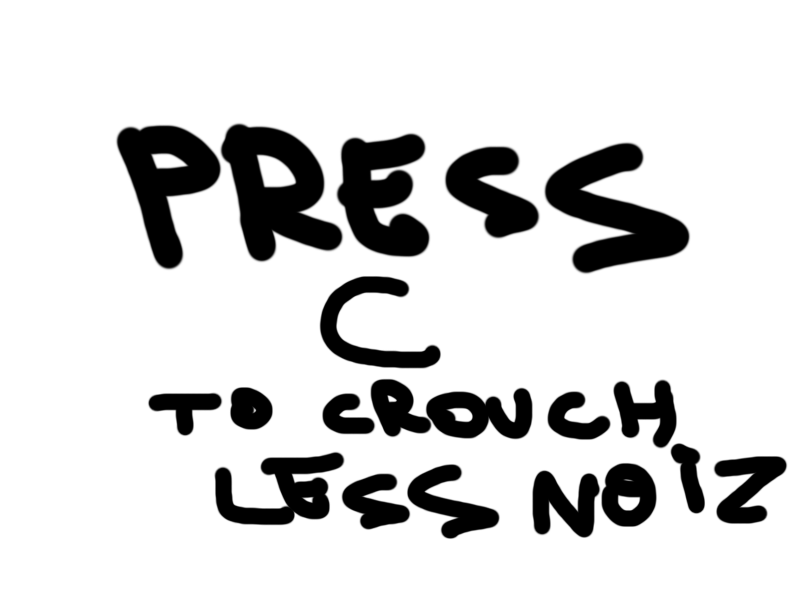
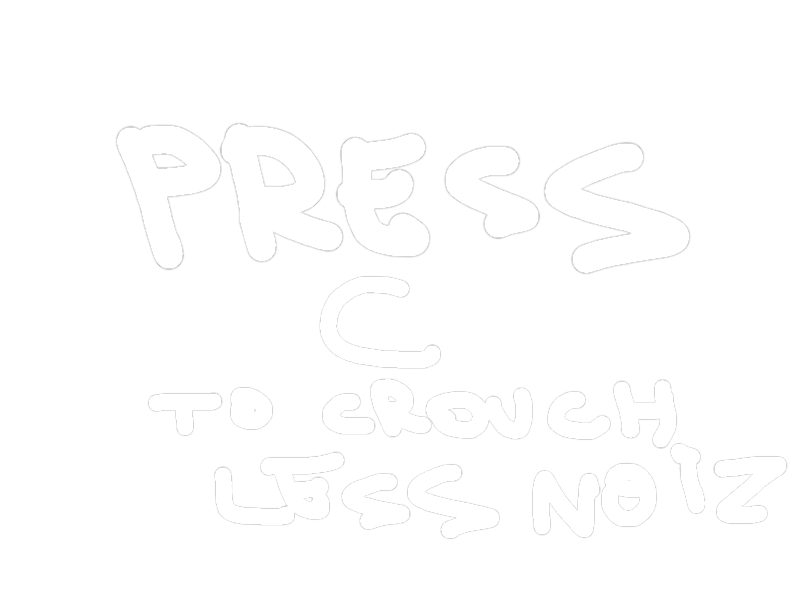
tutorials

Changed region(s): [[0.125, 0.21, 1.0, 0.9], [0.25, 0.75, 0.625, 0.9], [0.1875, 0.63, 0.3438, 0.72]]

diff --git a/src/draw/mod.rs b/src/draw/mod.rs
@@ -244,47 +244,70 @@ impl Game {
 
         if !self.main_menu && !self.in_settings {
             // PawnMan20 is like totally hot
-            let reticle_texture = (|| {
-                match look.target {
-                    None => &self.assets.reticle,
-                    Some(target) => match target.object {
-                        Object::StaticLevel => &self.assets.reticle,
-                        Object::Interactable(id) => {
-                            let interactable = &self.interactables[id];
 
-                            // Copypasta mmmm
-                            let mut requirement = interactable.config.require_item.as_deref();
-                            if interactable.data.obj.meshes[0]
-                                .name
-                                .starts_with("I_LoosePlank")
-                            {
-                                requirement = Some("Crowbar");
-                            }
-
-                            if let Some(requirement) = requirement {
-                                if self.player.item.as_deref() != Some(requirement) {
-                                    return &self.assets.require_item;
-                                    // self.level.items[requirement].spawns[0]
-                                    //     .mesh
-                                    //     .material
-                                    //     .texture
-                                    //     .unwrap();
-                                }
-                            }
-                            &self.assets.hand
-                        }
-                        Object::Item(id) => &self.assets.hand,
-                    },
+            let tutorial_texture = {
+                let mut texture = None;
+                if self.show_flashlight_tutorial && !self.player.flashdark.on {
+                    texture = Some(&self.assets.tutorial.flashlight);
+                } else if self.show_crouch_tutorial && self.player_inside_house {
+                    texture = Some(&self.assets.tutorial.crouch);
                 }
-            })();
-            self.geng.draw_2d(
-                framebuffer,
-                &camera2d,
-                &draw_2d::TexturedQuad::new(
-                    AABB::point(Vec2::ZERO).extend_uniform(0.5),
-                    reticle_texture,
-                ),
-            );
+                texture
+            };
+            if let Some(texture) = tutorial_texture {
+                self.geng.draw_2d(
+                    framebuffer,
+                    &camera2d,
+                    &draw_2d::TexturedQuad::new(
+                        AABB::point(Vec2::ZERO).extend_symmetric(
+                            vec2(texture.size().x as f32 / texture.size().y as f32, 1.0) * 5.0,
+                        ),
+                        texture,
+                    ),
+                );
+            } else {
+                let reticle_texture = (|| {
+                    match look.target {
+                        None => &self.assets.reticle,
+                        Some(target) => match target.object {
+                            Object::StaticLevel => &self.assets.reticle,
+                            Object::Interactable(id) => {
+                                let interactable = &self.interactables[id];
+
+                                // Copypasta mmmm
+                                let mut requirement = interactable.config.require_item.as_deref();
+                                if interactable.data.obj.meshes[0]
+                                    .name
+                                    .starts_with("I_LoosePlank")
+                                {
+                                    requirement = Some("Crowbar");
+                                }
+
+                                if let Some(requirement) = requirement {
+                                    if self.player.item.as_deref() != Some(requirement) {
+                                        return &self.assets.require_item;
+                                        // self.level.items[requirement].spawns[0]
+                                        //     .mesh
+                                        //     .material
+                                        //     .texture
+                                        //     .unwrap();
+                                    }
+                                }
+                                &self.assets.hand
+                            }
+                            Object::Item(id) => &self.assets.hand,
+                        },
+                    }
+                })();
+                self.geng.draw_2d(
+                    framebuffer,
+                    &camera2d,
+                    &draw_2d::TexturedQuad::new(
+                        AABB::point(Vec2::ZERO).extend_uniform(0.5),
+                        reticle_texture,
+                    ),
+                );
+            }
         }
 
         if !self.main_menu && self.intro_t > 0.0 {

diff --git a/src/logic/monster.rs b/src/logic/monster.rs
@@ -165,15 +165,7 @@ impl Game {
         }
     }
     pub fn check_monster_sfx(&mut self, pos: Vec3<f32>) {
-        let player_inside_house = {
-            let door_id = self
-                .interactables
-                .iter()
-                .position(|interactable| interactable.data.obj.meshes[0].name == "D_DoorMain")
-                .unwrap();
-            !self.interactables[door_id].open
-        };
-        if !player_inside_house {
+        if !self.player_inside_house {
             return;
         }
         if !self.monster_spawned {
@@ -217,14 +209,6 @@ impl Game {
                 music.set_volume(*vol);
             }
         }
-        let player_inside_house = {
-            let door_id = self
-                .interactables
-                .iter()
-                .position(|interactable| interactable.data.obj.meshes[0].name == "D_DoorMain")
-                .unwrap();
-            !self.interactables[door_id].open
-        };
         if !self.monster_spawned {
             return;
         }
@@ -299,7 +283,7 @@ impl Game {
             }
         }
 
-        if player_inside_house {
+        if self.player_inside_house {
             if self.monster_sees_player() {
                 self.monster.detect_timer += if self.player.height > 0.75 {
                     delta_time
@@ -373,7 +357,7 @@ impl Game {
             let radius = 0.25;
             if v.len() < radius {
                 let mut can_open = true;
-                if name == "D_DoorStudy" && !player_inside_house {
+                if name == "D_DoorStudy" && !self.player_inside_house {
                     can_open = false;
                 }
                 // COPYPASTE YAY

diff --git a/src/logic/flashdark.rs b/src/logic/flashdark.rs
@@ -39,7 +39,10 @@ impl Game {
             if self.monster.next_flashdark_flicker_time < 0.0 {
                 self.monster.next_flashdark_flicker_time =
                     self.assets.config.flashdark_flicker_interval;
-                if global_rng().gen_bool(self.assets.config.flashdark_turn_off_probability as f64) {
+                if self.show_flashlight_tutorial
+                    || global_rng()
+                        .gen_bool(self.assets.config.flashdark_turn_off_probability as f64)
+                {
                     self.toggle_flashdark();
                 }
             }
@@ -49,6 +52,7 @@ impl Game {
     pub fn toggle_flashdark(&mut self) {
         self.player.flashdark.on = !self.player.flashdark.on;
         if self.player.flashdark.on {
+            self.show_flashlight_tutorial = false;
             self.assets.sfx.flash_on.play();
         } else {
             self.assets.sfx.flash_off.play();

diff --git a/src/main.rs b/src/main.rs
@@ -84,7 +84,10 @@ impl Default for Settings {
 }
 
 pub struct Game {
+    player_inside_house: bool,
+    show_crouch_tutorial: bool,
     draw_calls: Cell<usize>,
+    show_flashlight_tutorial: bool,
     main_menu: bool,
     in_settings: bool,
     settings: Settings,
@@ -192,6 +195,9 @@ impl Game {
         navmesh.remove_unreachable_from(level.trigger_cubes["GhostSpawn"].center());
 
         let mut res = Self {
+            player_inside_house: false,
+            show_flashlight_tutorial: true,
+            show_crouch_tutorial: true,
             difficulty: assets.difficulties[DEFAULT_DIFF].clone(),
             start_drag: Vec2::ZERO,
             ui_mouse_pos: Vec2::ZERO,

diff --git a/src/assets/mod.rs b/src/assets/mod.rs
@@ -40,6 +40,12 @@ pub struct GhostAssets {
 }
 
 #[derive(geng::Assets)]
+pub struct TutorialAssets {
+    pub flashlight: ugli::Texture,
+    pub crouch: ugli::Texture,
+}
+
+#[derive(geng::Assets)]
 pub struct Assets {
     pub shaders: Shaders,
     pub ghost: GhostAssets,
@@ -60,6 +66,7 @@ pub struct Assets {
     pub dust_particle: ugli::Texture,
     #[asset(path = "difficulty/*.json", range = "1..=3")]
     pub difficulties: Vec<Difficulty>,
+    pub tutorial: TutorialAssets,
 }
 
 #[derive(geng::Assets)]

diff --git a/src/logic/movement.rs b/src/logic/movement.rs
@@ -16,6 +16,7 @@ impl Game {
             .iter()
             .any(|button| button.is_pressed(&self.geng))
         {
+            self.show_crouch_tutorial = false;
             self.player.height += (0.5 - self.player.height).clamp(-delta_time / CROUCH_TIME, 1.0);
         } else {
             self.player.height += (1.0 - self.player.height).clamp(-1.0, delta_time / CROUCH_TIME);

diff --git a/src/logic/mod.rs b/src/logic/mod.rs
@@ -183,6 +183,7 @@ impl Game {
             .horizontal_aabb()
             .contains(self.player.pos.xy())
         {
+            self.player_inside_house = true;
             let door_id = self
                 .interactables
                 .iter()
